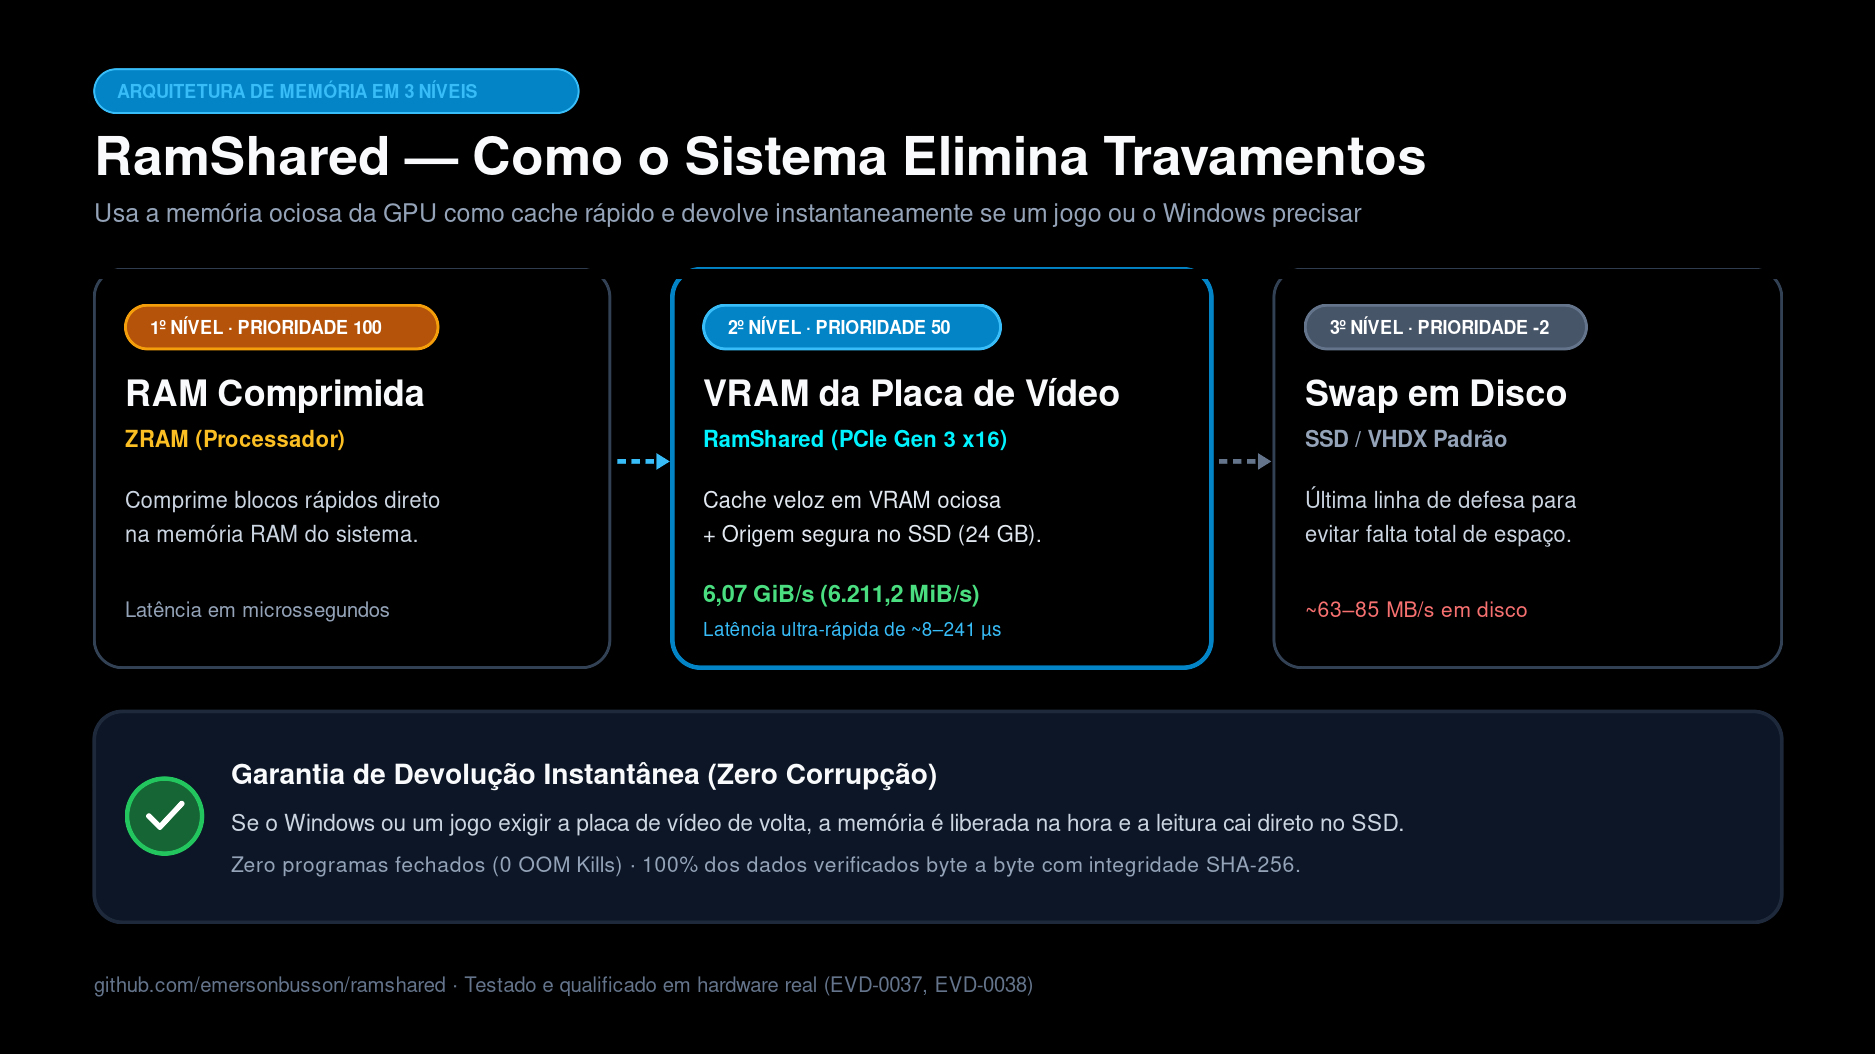
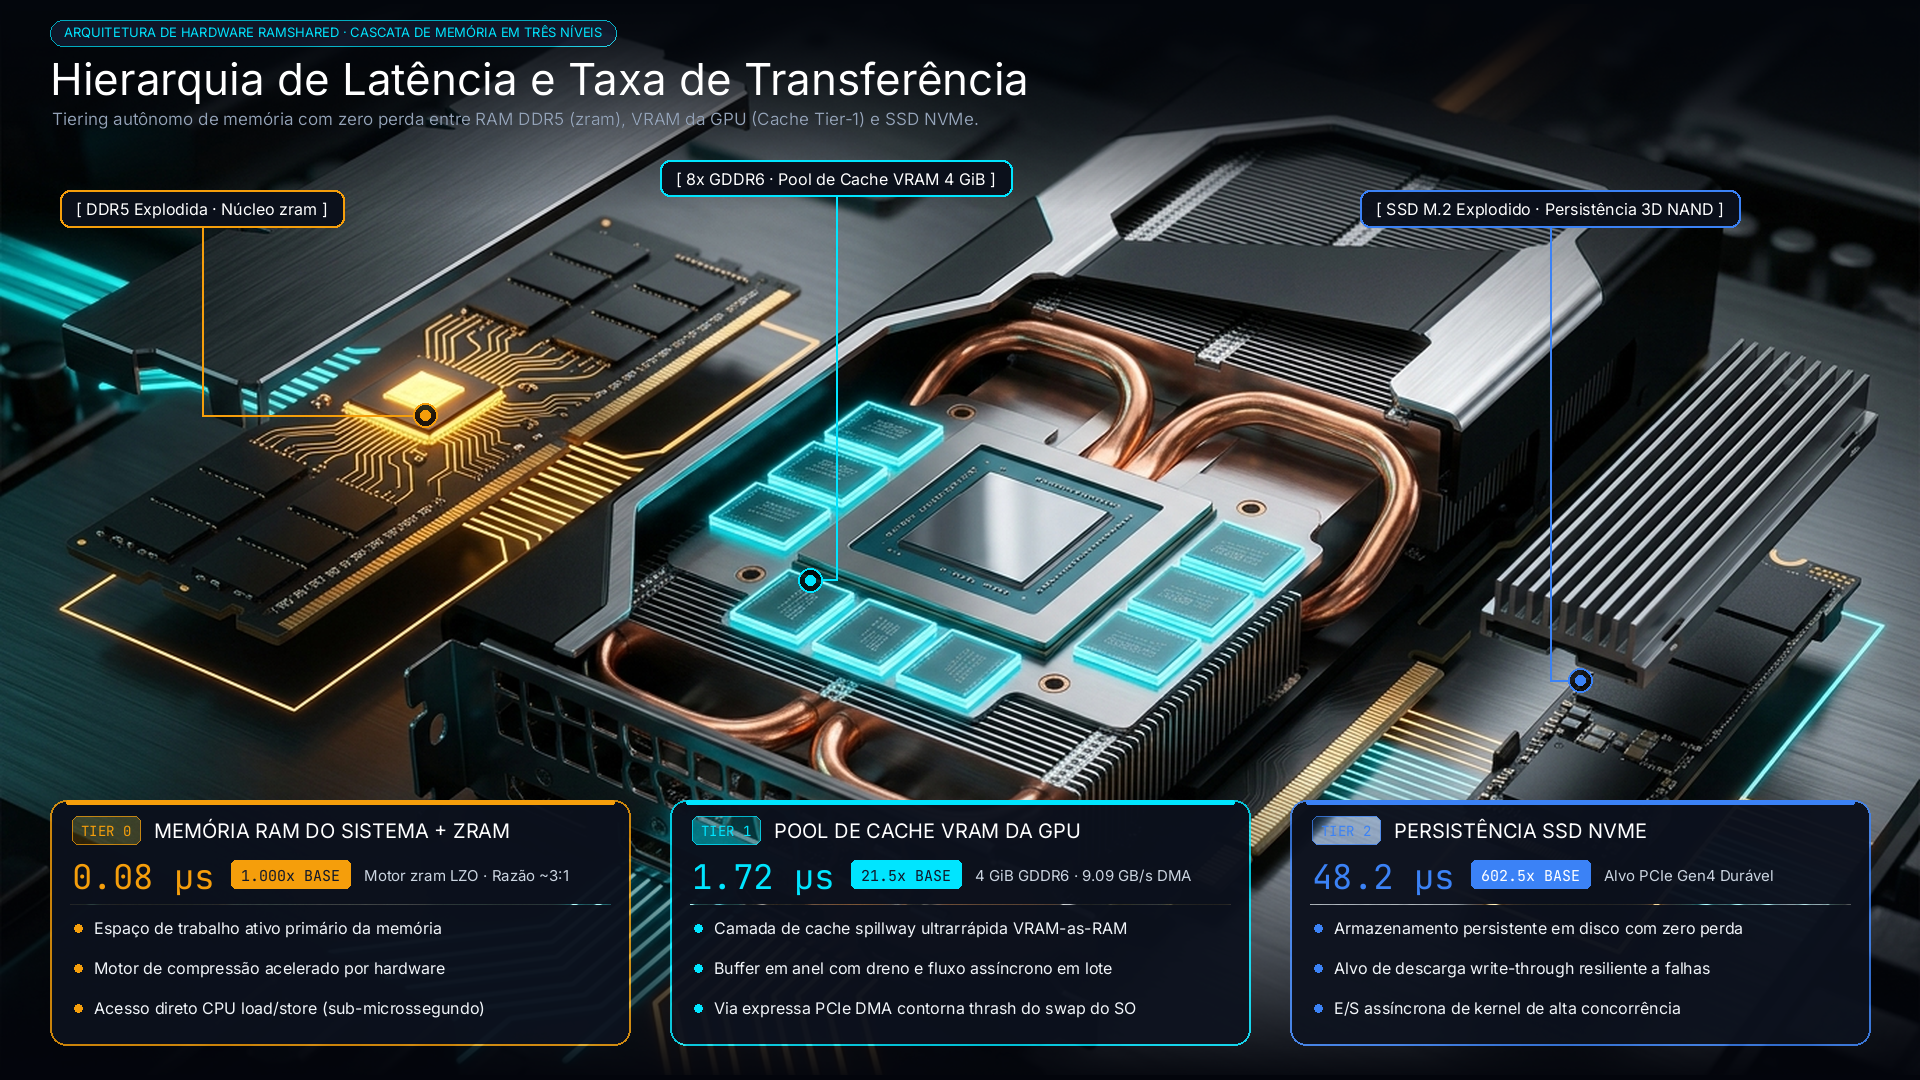
docs(marketing): elevate cascade diagrams typography and high-res vector svgs
- Increase font sizes across all raster diagrams by 25-40% for instant legibility.
- Calibrate hardware pointer reticles to exact silicon dies (zRAM DDR5, GDDR6 VRAM, 3D NAND).
- Upgrade vector SVGs to Inter and JetBrains Mono typography with enlarged readable scales.
- Update public claims SHA-256 digests for verified vector assets.
- Register social-preview.png in marketing inventory table.

diff --git a/docs/marketing/README.md b/docs/marketing/README.md
@@ -13,6 +13,7 @@ This directory contains public architecture diagrams and benchmark comparison vi
 | `benchmark-comparison.svg` | Vector SVG | Direct I/O and latency comparison graph | `docs/benchmarks/public-claims.json` |
 | `benchmark-comparison.jpg` | JPEG | Benchmark throughput comparison raster artifact | `docs/governance/public-binary-digests.json` |
 | `benchmark-wsl2-vs-storport.jpg` | JPEG | WSL2 vs StorPort benchmark comparison artifact | `docs/governance/public-binary-digests.json` |
+| `social-preview.png` | PNG (1200x630) | OpenGraph social preview and repository preview card | GitHub / social |
 
 ## Integrity
 
